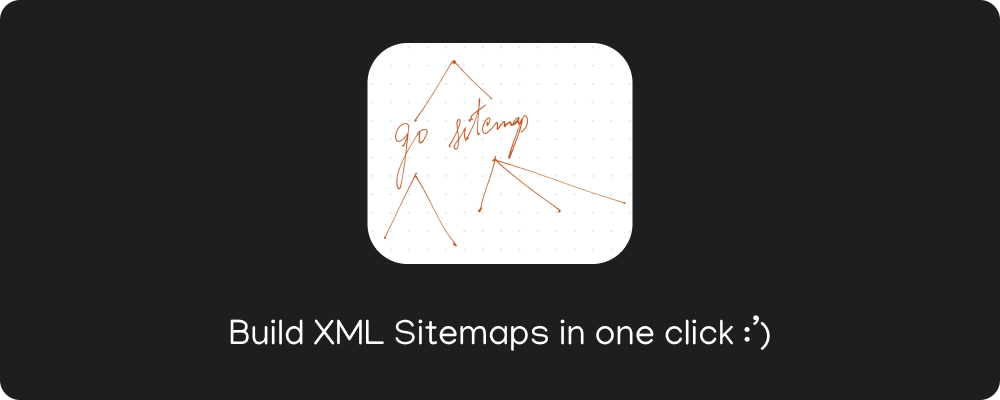
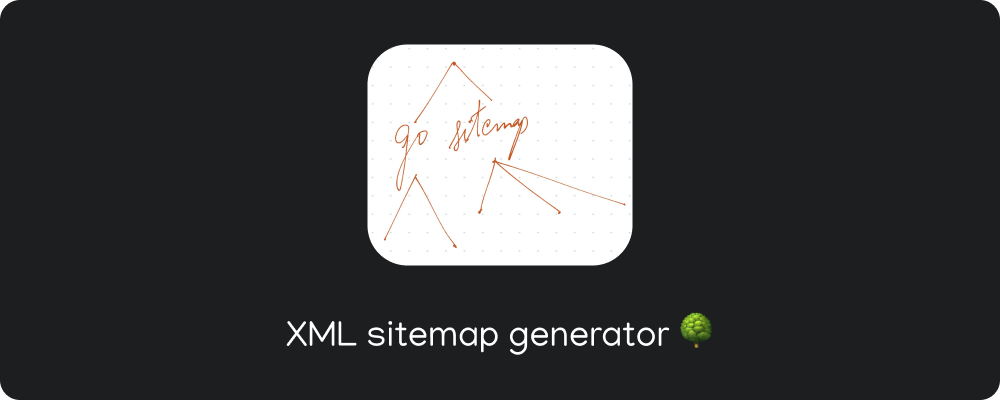
chore: update cover text

diff --git a/README.md b/README.md
@@ -1,6 +1,8 @@
-# Go Sitemap!
+![go-sitemap](assets/cover.png)
 
-![](assets/cover.png)
+[![GitHub License](https://img.shields.io/github/license/r-ush/go-sitemap)](https://github.com/r-ush/go-sitemap/blob/master/LICENSE)
+
+# go sitemap!
 
 > go-sitemap is a small cli to build XML sitemap for any website
 
